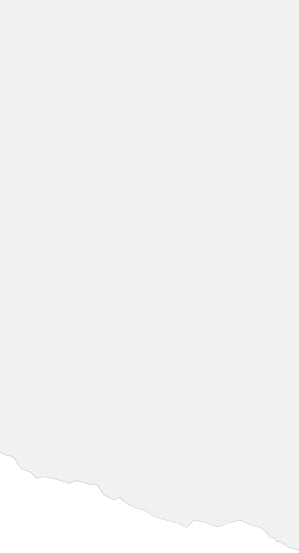
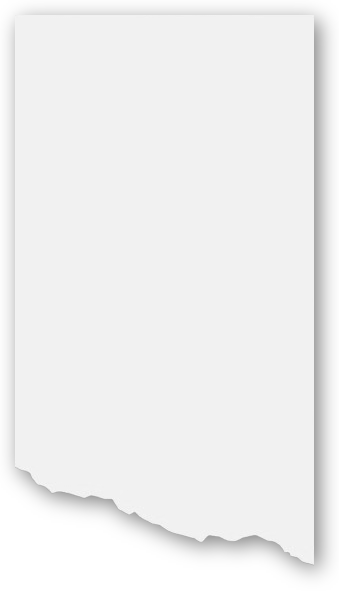
edit homepage css

Changed region(s): [[0.0602, 0.0307, 0.9632, 0.9837], [0.9933, 0.9837, 1.0, 1.0]]

diff --git a/css/homepage.css b/css/homepage.css
@@ -3,7 +3,7 @@
 }
 
 :root {
-    --bg: #e8e5dc;
+    --bg: #f6f2ea;
     --text: #212121;
     --dark-text: #000000;
     --btn: #CCBEB5;
@@ -20,7 +20,7 @@
     --project2-bg: #d4b8b6;
     --project-link: #5c2623;
     --project-link-hover: #74322e;
-    --post-bg: #f0f0ee;
+    --post-bg: #f4f4f4;
     --post-btn: #D6CDC6;
     --post-btn-hover: #D6C8BF;
     --post-btn-active: #CCBEB5;
@@ -101,18 +101,18 @@ section {
 #hero-section {
     position: relative;
     min-height: calc(100vh - 30px);
-    width: 100%;
+    width: calc(100% + 30px);
     background-color: none;
     background-image: url("../photos/torn-paper.png");
     background-repeat: no-repeat;
     background-size: 100% 100%;
-    box-shadow: 30px -10px 20px -30px rgba(0,0,0,0.32), -102px -85px 30px -110px rgba(0,0,0,0.32);
-    border-radius: 7px;
+    margin: -20px -15px;
     margin-bottom: 95px;
+    padding: 10px 0;
 }
 
 #hero-content {
-    padding: 20px 30px 200px 30px;
+    padding: 35px 60px 215px 45px;
 }
 
 #name {
@@ -138,9 +138,10 @@ section {
 #sticky-parent {
     position: absolute;
     bottom: 0;
+    left: 0;
     width: 100%;
     padding: 0;
-    height: 225px;
+    height: 240px;
 }
 
 #about-me-div {
